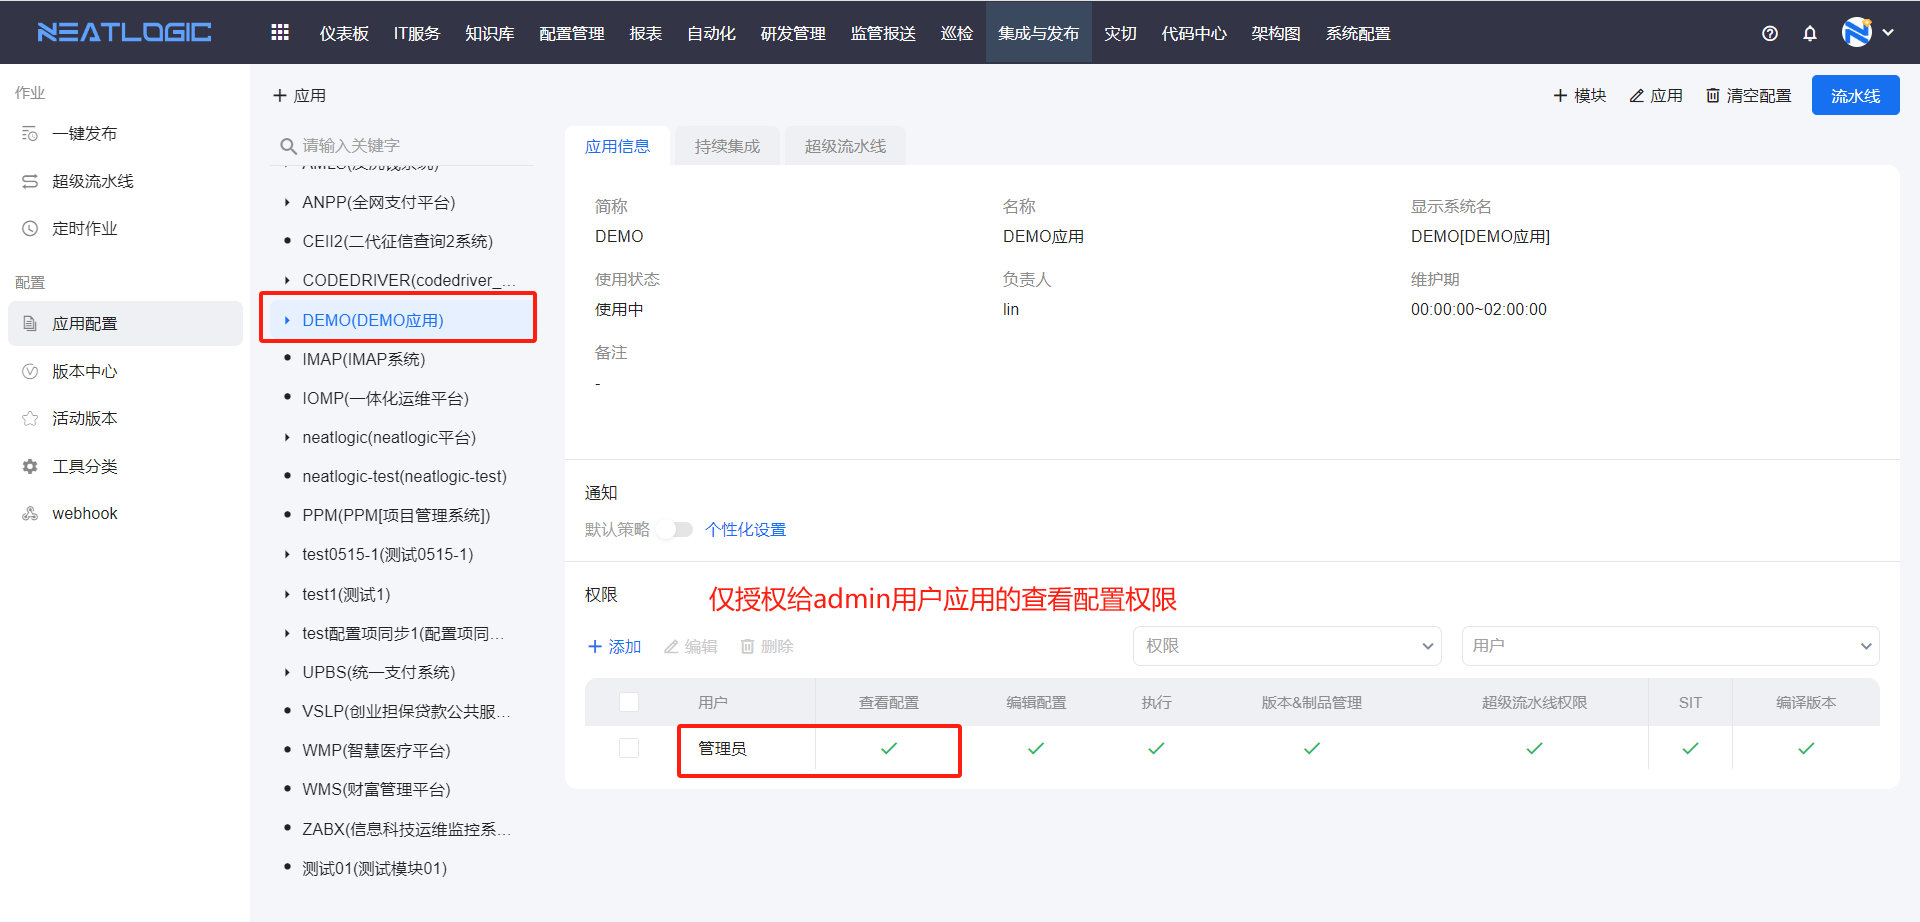
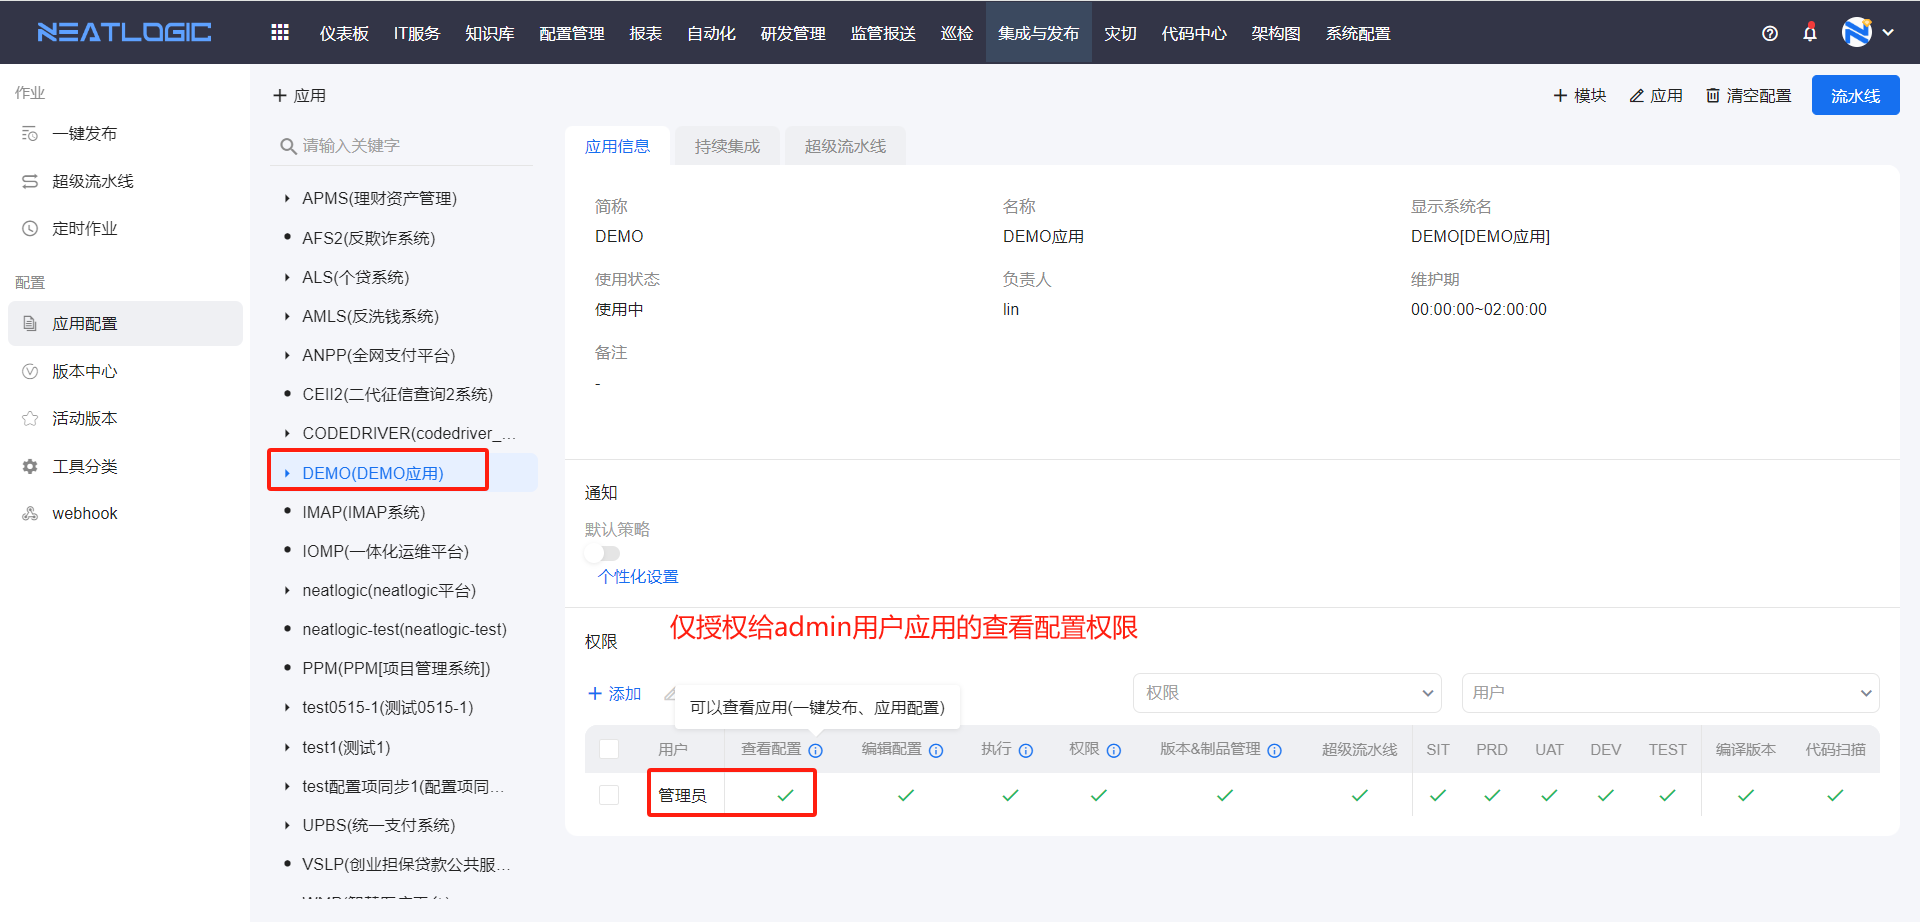
应用配置权限调整

diff --git a/src/main/resources/neatlogic/resources/documentonline/zh/6.集成与发布/应用配置.md b/src/main/resources/neatlogic/resources/documentonline/zh/6.集成与发布/应用配置.md
@@ -60,6 +60,11 @@
       用户缺少应用的执行权限时，在一键发布页面无法发起该应用的作用。
       ![](images/应用配置_授权_无执行权限.png)
 
+   - “权限”权限：这个权限是控制对应于的权限配置进行操作的权限
+      ![](images/应用配置_授权_权限.png)
+      无“权限”权限时，权限列表只读。
+      ![](images/应用配置_授权_无权限列表权限.pn)
+
    - 版本&制品管理权限：在版本中心页面，控制是否能够对应用的版本和制品进行管理操作。
       ![](images/应用配置_授权_无版本和制品权限.png)
   
@@ -73,10 +78,10 @@
    - 场景权限：在发起发布作业时，控制是否能够选择对应的场景。
       ![](images/应用配置_授权_无场景权限.png)
 
-5. 支持配置配置持续集成，持续集成是指在特定事件下触发发布作业的配置，支持添加、编辑、删除和搜索配置等操作。
+1. 支持配置配置持续集成，持续集成是指在特定事件下触发发布作业的配置，支持添加、编辑、删除和搜索配置等操作。
 ![](images/应用配置_持续集成.gif)
    
-6. 支持配置应用超级流水线，即预设当前应用的批量发布作业模板，支持添加、编辑、删除、发起批量作业和查看作业列表等操作。
+1. 支持配置应用超级流水线，即预设当前应用的批量发布作业模板，支持添加、编辑、删除、发起批量作业和查看作业列表等操作。
 ![](images/应用配置_超级流水线.gif)
 
 ## 模块层
